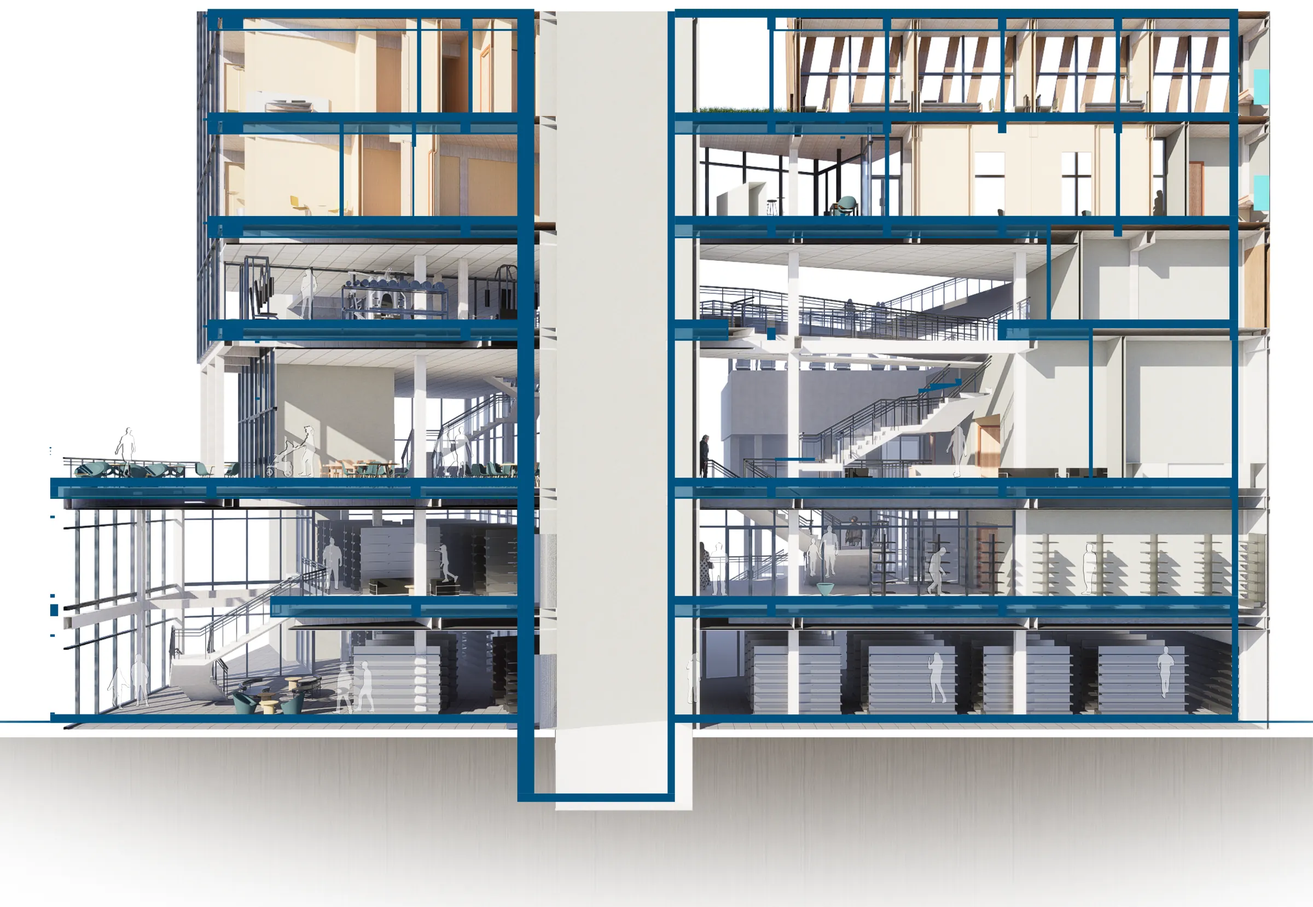
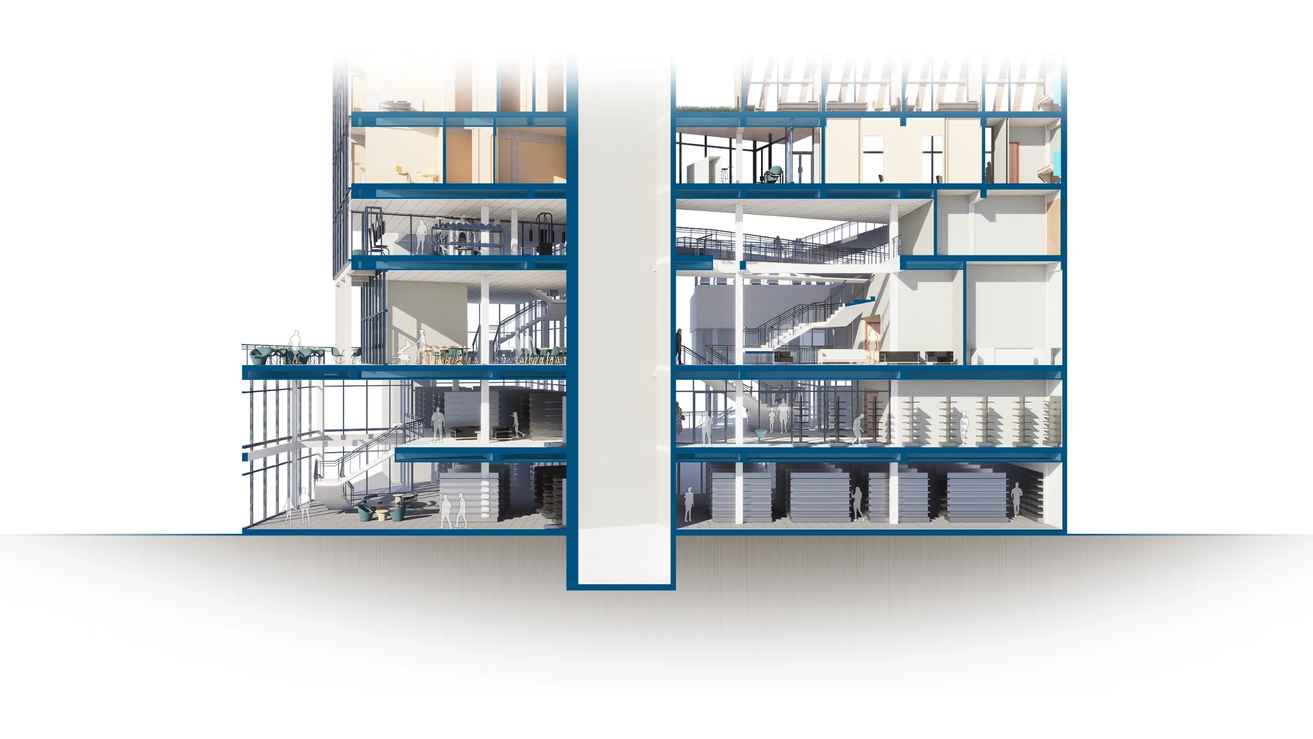
BRIDGE1400: Section AA v1.0 with horizontal callouts in the side margins; centred sketch captions

diff --git a/docs/work/bridge1400/index.html b/docs/work/bridge1400/index.html
@@ -659,7 +659,7 @@
     </g>
   </g>
 </svg>
-</div><p class="step-n">Step 8</p><h3>Experiential ramp</h3><p>A gently sloped internal ramp links Level 4 and Level 5 as a promenade with waterfront views.</p></li></ol></div></section><section class="chapter reveal"><div class="chapter-text"><h2>Mass timber</h2><p>The four-level podium is concrete. Above it, the hotel tower is built in mass timber: glulam columns and beams carry CLT floors, arranged around concrete cores. Exposed wood gives the guest rooms warmth and quiet, carries the project&#x27;s biophilic approach, and echoes the timber and glass of the working waterfront. Timber also stores carbon instead of emitting it, which the design study estimates below.</p><div class="facts"><div class="fact"><span>CO2 stored per m3 of CLT</span><strong>~0.9 t</strong></div><div class="fact"><span>Structural timber per ft2 of floor</span><strong>7.5 ft3</strong></div><div class="fact"><span>CO2 stored in the CLT, metric tons (estimate)</span><strong>~33,000 t</strong></div></div><p class="small">CLT storage rate from WoodWorks and the U.S. Forest Service, as cited in the design study.</p></div><div class="chapter-figs"><div class="fig-pair"><figure class="zoom"><img class="" src="../../assets/img/bridge1400/structure-nw-1200.webp" srcset="../../assets/img/bridge1400/structure-nw-1200.webp 1200w, ../../assets/img/bridge1400/structure-nw-2400.webp 2400w" sizes="(min-width: 1400px) 1400px, 100vw" width="2083" height="2521" alt="Structural axonometric from the northwest" loading="lazy" decoding="async"><figcaption>Structural axonometric from the northwest</figcaption></figure><figure class="zoom"><img class="" src="../../assets/img/bridge1400/structure-se-1200.webp" srcset="../../assets/img/bridge1400/structure-se-1200.webp 1200w, ../../assets/img/bridge1400/structure-se-2400.webp 2400w" sizes="(min-width: 1400px) 1400px, 100vw" width="2089" height="2633" alt="Structural axonometric from the southeast" loading="lazy" decoding="async"><figcaption>Structural axonometric from the southeast</figcaption></figure></div></div></section><section class="chapter reveal"><div class="chapter-text"><h2>Plans</h2><p>Retail activates the first two levels. The hotel lobby, restaurants and an infinity pool fill the podium, and guest rooms stack above with terraces and a sky lounge.</p></div><div class="chapter-figs"><div class="plan-viewer"><input class="plan-radio" type="radio" name="plans-bridge1400" id="plans-bridge1400-0" checked><input class="plan-radio" type="radio" name="plans-bridge1400" id="plans-bridge1400-1"><input class="plan-radio" type="radio" name="plans-bridge1400" id="plans-bridge1400-2"><input class="plan-radio" type="radio" name="plans-bridge1400" id="plans-bridge1400-3"><input class="plan-radio" type="radio" name="plans-bridge1400" id="plans-bridge1400-4"><input class="plan-radio" type="radio" name="plans-bridge1400" id="plans-bridge1400-5"><input class="plan-radio" type="radio" name="plans-bridge1400" id="plans-bridge1400-6"><input class="plan-radio" type="radio" name="plans-bridge1400" id="plans-bridge1400-7"><div class="plan-tabs"><span>Level</span><label for="plans-bridge1400-0">1</label><label for="plans-bridge1400-1">2</label><label for="plans-bridge1400-2">3</label><label for="plans-bridge1400-3">4</label><label for="plans-bridge1400-4">5</label><label for="plans-bridge1400-5">6–9</label><label for="plans-bridge1400-6">10</label><label for="plans-bridge1400-7">12–13</label></div><div class="plan-panels"><figure class="plan-panel"><div class="plan-sheet zoom"><img class="" src="../../assets/img/bridge1400/plan-level-1-1200.webp" srcset="../../assets/img/bridge1400/plan-level-1-1200.webp 1200w, ../../assets/img/bridge1400/plan-level-1-2400.webp 2400w" sizes="(min-width: 1100px) 1000px, 100vw" width="2244" height="2600" alt="Level 1 floor plan" loading="lazy" decoding="async"></div><figcaption><strong>Level 1</strong><ul><li>Retail shops</li><li>Service area</li></ul></figcaption></figure><figure class="plan-panel"><div class="plan-sheet zoom"><img class="" src="../../assets/img/bridge1400/plan-level-2-1200.webp" srcset="../../assets/img/bridge1400/plan-level-2-1200.webp 1200w, ../../assets/img/bridge1400/plan-level-2-2400.webp 2400w" sizes="(min-width: 1100px) 1000px, 100vw" width="2244" height="2600" alt="Level 2 floor plan" loading="lazy" decoding="async"></div><figcaption><strong>Level 2</strong><ul><li>Retail shops</li><li>Service area</li></ul></figcaption></figure><figure class="plan-panel"><div class="plan-sheet zoom"><img class="" src="../../assets/img/bridge1400/plan-level-3-1200.webp" srcset="../../assets/img/bridge1400/plan-level-3-1200.webp 1200w, ../../assets/img/bridge1400/plan-level-3-2400.webp 2400w" sizes="(min-width: 1100px) 1000px, 100vw" width="2244" height="2600" alt="Level 3 floor plan" loading="lazy" decoding="async"></div><figcaption><strong>Level 3</strong><ul><li>Hotel lobby</li><li>Service area</li><li>Restaurant</li><li>Cafe</li></ul></figcaption></figure><figure class="plan-panel"><div class="plan-sheet zoom"><img class="" src="../../assets/img/bridge1400/plan-level-4-1200.webp" srcset="../../assets/img/bridge1400/plan-level-4-1200.webp 1200w, ../../assets/img/bridge1400/plan-level-4-2400.webp 2400w" sizes="(min-width: 1100px) 1000px, 100vw" width="2244" height="2600" alt="Level 4 floor plan" loading="lazy" decoding="async"></div><figcaption><strong>Level 4</strong><ul><li>Fitness zone</li><li>Service area</li><li>Restaurant</li><li>Cafe</li><li>Infinity pool area</li></ul></figcaption></figure><figure class="plan-panel"><div class="plan-sheet zoom"><img class="" src="../../assets/img/bridge1400/plan-level-5-1200.webp" srcset="../../assets/img/bridge1400/plan-level-5-1200.webp 1200w, ../../assets/img/bridge1400/plan-level-5-2400.webp 2400w" sizes="(min-width: 1100px) 1000px, 100vw" width="2244" height="2600" alt="Level 5 floor plan" loading="lazy" decoding="async"></div><figcaption><strong>Level 5</strong><ul><li>Guest rooms</li><li>Hotel service</li><li>Lounge</li></ul></figcaption></figure><figure class="plan-panel"><div class="plan-sheet zoom"><img class="" src="../../assets/img/bridge1400/plan-level-6-9-1200.webp" srcset="../../assets/img/bridge1400/plan-level-6-9-1200.webp 1200w, ../../assets/img/bridge1400/plan-level-6-9-2400.webp 2400w" sizes="(min-width: 1100px) 1000px, 100vw" width="2244" height="2600" alt="Levels 6 to 9 floor plan" loading="lazy" decoding="async"></div><figcaption><strong>Levels 6 to 9</strong><ul><li>Guest rooms</li><li>Hotel service</li><li>Green terrace</li></ul></figcaption></figure><figure class="plan-panel"><div class="plan-sheet zoom"><img class="" src="../../assets/img/bridge1400/plan-level-10-1200.webp" srcset="../../assets/img/bridge1400/plan-level-10-1200.webp 1200w, ../../assets/img/bridge1400/plan-level-10-2400.webp 2400w" sizes="(min-width: 1100px) 1000px, 100vw" width="2244" height="2600" alt="Level 10 floor plan" loading="lazy" decoding="async"></div><figcaption><strong>Level 10</strong><ul><li>Guest rooms</li><li>Hotel service</li><li>Green terrace BBQ</li></ul></figcaption></figure><figure class="plan-panel"><div class="plan-sheet zoom"><img class="" src="../../assets/img/bridge1400/plan-level-12-13-1200.webp" srcset="../../assets/img/bridge1400/plan-level-12-13-1200.webp 1200w, ../../assets/img/bridge1400/plan-level-12-13-2400.webp 2400w" sizes="(min-width: 1100px) 1000px, 100vw" width="2244" height="2600" alt="Levels 12 and 13 floor plan" loading="lazy" decoding="async"></div><figcaption><strong>Levels 12 and 13</strong><ul><li>Guest rooms</li><li>Hotel service</li><li>Lounge</li></ul></figcaption></figure></div></div></div></section><section class="chapter reveal"><div class="chapter-text"><h2>Sections</h2><p>Double-height retail glazing, a restaurant stair through a central void, and the pool-to-bar ramp are read together in section.</p></div><div class="chapter-figs"><figure class="callout-map wide"><div class="callout-stage" style="--ar:3300/2962.0;--ar-img:3300/2280;--img-top:23.02%;--img-h:76.98%;--label-w:15.0%;--design-w:1200"><img class="callout-img" src="../../assets/img/bridge1400/section-aa-1200.webp" srcset="../../assets/img/bridge1400/section-aa-1200.webp 1200w, ../../assets/img/bridge1400/section-aa-2400.webp 2400w" sizes="(min-width: 960px) 900px, 100vw" width="3300" height="2280" alt="Section AA" loading="lazy" decoding="async"><svg class="callout-lines" viewBox="0 0 3300 2962.0" preserveAspectRatio="none" aria-hidden="true"><path vector-effect="non-scaling-stroke" d="M264.0,643.5 L131.0,2088.8"/><path vector-effect="non-scaling-stroke" d="M272.2,429.0 L272.2,1840.2"/><path vector-effect="non-scaling-stroke" d="M666.6,214.5 L666.6,1416.2"/><path vector-effect="non-scaling-stroke" d="M825.0,643.5 L825.0,1149.4"/><path vector-effect="non-scaling-stroke" d="M1468.5,643.5 L1468.5,2615.4"/><path vector-effect="non-scaling-stroke" d="M1953.6,429.0 L1953.6,1151.7"/><path vector-effect="non-scaling-stroke" d="M2323.2,643.5 L2323.2,1696.6"/><path vector-effect="non-scaling-stroke" d="M2422.2,214.5 L2422.2,1423.0"/><path vector-effect="non-scaling-stroke" d="M2930.4,643.5 L2930.4,1851.6"/><path vector-effect="non-scaling-stroke" d="M3036.0,429.0 L3036.0,2268.9"/></svg><span class="callout-dot" data-n="1" style="left:3.97%;--ty:70.52%;--ty-img:61.70%"></span><span class="callout-dot" data-n="2" style="left:8.25%;--ty:62.13%;--ty-img:50.80%"></span><span class="callout-dot" data-n="3" style="left:20.20%;--ty:47.81%;--ty-img:32.20%"></span><span class="callout-dot" data-n="4" style="left:25.00%;--ty:38.80%;--ty-img:20.50%"></span><span class="callout-dot" data-n="5" style="left:44.50%;--ty:88.30%;--ty-img:84.80%"></span><span class="callout-dot" data-n="6" style="left:59.20%;--ty:38.88%;--ty-img:20.60%"></span><span class="callout-dot" data-n="7" style="left:70.40%;--ty:57.28%;--ty-img:44.50%"></span><span class="callout-dot" data-n="8" style="left:73.40%;--ty:48.04%;--ty-img:32.50%"></span><span class="callout-dot" data-n="9" style="left:88.80%;--ty:62.51%;--ty-img:51.30%"></span><span class="callout-dot" data-n="10" style="left:92.00%;--ty:76.60%;--ty-img:69.60%"></span><span class="callout-label" style="left:8.00%;top:21.73%"><strong>Retail glazing</strong><small>Double-height, dual-glazed storefront</small></span><span class="callout-label" style="left:8.25%;top:14.48%"><strong>Outdoor restaurant</strong><small>Draws people in from Union St and Western Ave</small></span><span class="callout-label" style="left:20.20%;top:7.24%"><strong>Fitness center</strong><small>Daylight and open views</small></span><span class="callout-label" style="left:25.00%;top:21.73%"><strong>Hotel rooms</strong><small>Framed toward views, daylight and quiet</small></span><span class="callout-label" style="left:44.50%;top:21.73%"><strong>Elevator pit</strong><small>8 ft deep for mechanical clearance</small></span><span class="callout-label" style="left:59.20%;top:14.48%"><strong>Drinks bar</strong><small>Social anchor with water and city views</small></span><span class="callout-label" style="left:70.40%;top:21.73%"><strong>Restaurant stair</strong><small>Rises through a central void</small></span><span class="callout-label" style="left:73.40%;top:7.24%"><strong>Pool-to-bar ramp</strong><small>Links the Level 4 pool and Level 5 bar</small></span><span class="callout-label" style="left:88.80%;top:21.73%"><strong>Cafe kitchen</strong><small>Back-of-house beside the cafe</small></span><span class="callout-label" style="left:92.00%;top:14.48%"><strong>Retail street edge</strong><small>Double-height storefronts draw people in</small></span></div><ol class="callout-legend"><li><strong>Retail glazing</strong> Double-height, dual-glazed storefront</li><li><strong>Outdoor restaurant</strong> Draws people in from Union St and Western Ave</li><li><strong>Fitness center</strong> Daylight and open views</li><li><strong>Hotel rooms</strong> Framed toward views, daylight and quiet</li><li><strong>Elevator pit</strong> 8 ft deep for mechanical clearance</li><li><strong>Drinks bar</strong> Social anchor with water and city views</li><li><strong>Restaurant stair</strong> Rises through a central void</li><li><strong>Pool-to-bar ramp</strong> Links the Level 4 pool and Level 5 bar</li><li><strong>Cafe kitchen</strong> Back-of-house beside the cafe</li><li><strong>Retail street edge</strong> Double-height storefronts draw people in</li></ol><figcaption>Section AA</figcaption></figure></div></section><section class="chapter reveal"><div class="chapter-text"><h2>Performance</h2><p>The design study sizes renewable energy and water systems for the building. Rooftop and facade PV cover part of the annual electricity use, and low-flow fixtures, greywater reuse and rainwater harvesting cut potable water demand.</p><div class="facts"><div class="fact"><span>Solar electricity per year, of 1,400 MWh used</span><strong>212 MWh (15%)</strong></div><div class="fact"><span>Rooftop and facade PV system</span><strong>150 kW</strong></div><div class="fact"><span>Electricity cost saved by the PV</span><strong>~$23K per year</strong></div><div class="fact"><span>PV cost before incentives, about 6.5-year payback</span><strong>$150K</strong></div><div class="fact"><span>Water cost saved</span><strong>~$8K per year</strong></div><div class="fact"><span>Social cost of the carbon stored in the CLT</span><strong>~$6.2M</strong></div><div class="fact"><span>Water managed sustainably per year, of 2.3M gal used</span><strong>740K gal (33%)</strong></div><div class="fact"><span>Saved by low-flow fixtures (30 to 50% of use)</span><strong>Up to 1.15M gal</strong></div><div class="fact"><span>Recoverable greywater (40 to 50% of use)</span><strong>920K to 1.15M gal</strong></div><div class="fact"><span>Rainwater collected per year</span><strong>~237K gal</strong></div><div class="fact"><span>CO2 stored in the CLT structure</span><strong>~33,000 t</strong></div><div class="fact"><span>CO2 emitted by a concrete (RCC) structure</span><strong>~4,500 t</strong></div><div class="fact"><span>Off the road for a year, equivalent carbon</span><strong>~7,200 cars</strong></div></div><p class="small">Estimates from the design study: PV yield about 1,410 kWh per installed kW; rainfall 38 in per year. Water strategies overlap, so their savings are not added together. CLT stores about 0.9 t CO2 per m3 (WoodWorks, U.S. Forest Service); car equivalent uses EPA&#x27;s 4.6 t CO2 per car per year.</p><details class="calc"><summary>How these were calculated</summary><ul><li>Solar output: 150 kW × 1,410 kWh per kW per year = 211,500 kWh ≈ 212 MWh. 212 ÷ 1,400 MWh = 15% of annual use.</li><li>Electricity bill: 1,400,000 kWh × $0.11 per kWh (middle of the 10 to 12¢ grid price) ≈ $154K per year. The study&#x27;s $105K implies 7.5¢, below its own grid price, so the grid price is used here.</li><li>PV savings: 211,500 kWh × $0.11 ≈ $23K per year.</li><li>PV cost: 150,000 W × $1.00 per W = $150,000 before incentives. Simple payback: $150,000 ÷ $23,000 ≈ 6.5 years.</li><li>Water share: 740K ÷ 2.3M gal ≈ 32%, rounded to 33% in the study.</li><li>Low-flow fixtures: 30 to 50% of 2.3M gal = 690K to 1.15M gal. Greywater: 40 to 50% of 2.3M gal = 920K to 1.15M gal.</li><li>Water cost: the study&#x27;s $8K saved on 740K gal implies about $10.80 per 1,000 gal, so the full 2.3M gal bill is about $25K per year.</li><li>Rainwater: 38 in of rain per year × 0.623 gal per ft² per inch × about 10,000 ft² of roof ≈ 236,740 gal.</li><li>CLT storage: 0.9 t CO2 per m³ ÷ 35.3 ft³ per m³ ≈ 25 kg per ft³. 33,000 t ÷ 0.0255 t per ft³ ≈ 1.3M ft³ of timber, about 173,000 ft² of floor at 7.5 ft³ per ft².</li><li>Timber vs concrete: 33,000 t stored ÷ 4,500 t emitted ≈ 7.3 times (745% in the study).</li><li>Cars: 33,000 t ÷ 4.6 t CO2 per car per year ≈ 7,200 cars.</li><li>Carbon value: $6.2M ÷ 33,000 t ≈ $188 per tonne, in line with EPA&#x27;s social cost of carbon (about $190 per tonne).</li></ul></details></div><div class="chapter-figs"></div></section>
+</div><p class="step-n">Step 8</p><h3>Experiential ramp</h3><p>A gently sloped internal ramp links Level 4 and Level 5 as a promenade with waterfront views.</p></li></ol></div></section><section class="chapter reveal"><div class="chapter-text"><h2>Mass timber</h2><p>The four-level podium is concrete. Above it, the hotel tower is built in mass timber: glulam columns and beams carry CLT floors, arranged around concrete cores. Exposed wood gives the guest rooms warmth and quiet, carries the project&#x27;s biophilic approach, and echoes the timber and glass of the working waterfront. Timber also stores carbon instead of emitting it, which the design study estimates below.</p><div class="facts"><div class="fact"><span>CO2 stored per m3 of CLT</span><strong>~0.9 t</strong></div><div class="fact"><span>Structural timber per ft2 of floor</span><strong>7.5 ft3</strong></div><div class="fact"><span>CO2 stored in the CLT, metric tons (estimate)</span><strong>~33,000 t</strong></div></div><p class="small">CLT storage rate from WoodWorks and the U.S. Forest Service, as cited in the design study.</p></div><div class="chapter-figs"><div class="fig-pair"><figure class="zoom"><img class="" src="../../assets/img/bridge1400/structure-nw-1200.webp" srcset="../../assets/img/bridge1400/structure-nw-1200.webp 1200w, ../../assets/img/bridge1400/structure-nw-2400.webp 2400w" sizes="(min-width: 1400px) 1400px, 100vw" width="2083" height="2521" alt="Structural axonometric from the northwest" loading="lazy" decoding="async"><figcaption>Structural axonometric from the northwest</figcaption></figure><figure class="zoom"><img class="" src="../../assets/img/bridge1400/structure-se-1200.webp" srcset="../../assets/img/bridge1400/structure-se-1200.webp 1200w, ../../assets/img/bridge1400/structure-se-2400.webp 2400w" sizes="(min-width: 1400px) 1400px, 100vw" width="2089" height="2633" alt="Structural axonometric from the southeast" loading="lazy" decoding="async"><figcaption>Structural axonometric from the southeast</figcaption></figure></div></div></section><section class="chapter reveal"><div class="chapter-text"><h2>Plans</h2><p>Retail activates the first two levels. The hotel lobby, restaurants and an infinity pool fill the podium, and guest rooms stack above with terraces and a sky lounge.</p></div><div class="chapter-figs"><div class="plan-viewer"><input class="plan-radio" type="radio" name="plans-bridge1400" id="plans-bridge1400-0" checked><input class="plan-radio" type="radio" name="plans-bridge1400" id="plans-bridge1400-1"><input class="plan-radio" type="radio" name="plans-bridge1400" id="plans-bridge1400-2"><input class="plan-radio" type="radio" name="plans-bridge1400" id="plans-bridge1400-3"><input class="plan-radio" type="radio" name="plans-bridge1400" id="plans-bridge1400-4"><input class="plan-radio" type="radio" name="plans-bridge1400" id="plans-bridge1400-5"><input class="plan-radio" type="radio" name="plans-bridge1400" id="plans-bridge1400-6"><input class="plan-radio" type="radio" name="plans-bridge1400" id="plans-bridge1400-7"><div class="plan-tabs"><span>Level</span><label for="plans-bridge1400-0">1</label><label for="plans-bridge1400-1">2</label><label for="plans-bridge1400-2">3</label><label for="plans-bridge1400-3">4</label><label for="plans-bridge1400-4">5</label><label for="plans-bridge1400-5">6–9</label><label for="plans-bridge1400-6">10</label><label for="plans-bridge1400-7">12–13</label></div><div class="plan-panels"><figure class="plan-panel"><div class="plan-sheet zoom"><img class="" src="../../assets/img/bridge1400/plan-level-1-1200.webp" srcset="../../assets/img/bridge1400/plan-level-1-1200.webp 1200w, ../../assets/img/bridge1400/plan-level-1-2400.webp 2400w" sizes="(min-width: 1100px) 1000px, 100vw" width="2244" height="2600" alt="Level 1 floor plan" loading="lazy" decoding="async"></div><figcaption><strong>Level 1</strong><ul><li>Retail shops</li><li>Service area</li></ul></figcaption></figure><figure class="plan-panel"><div class="plan-sheet zoom"><img class="" src="../../assets/img/bridge1400/plan-level-2-1200.webp" srcset="../../assets/img/bridge1400/plan-level-2-1200.webp 1200w, ../../assets/img/bridge1400/plan-level-2-2400.webp 2400w" sizes="(min-width: 1100px) 1000px, 100vw" width="2244" height="2600" alt="Level 2 floor plan" loading="lazy" decoding="async"></div><figcaption><strong>Level 2</strong><ul><li>Retail shops</li><li>Service area</li></ul></figcaption></figure><figure class="plan-panel"><div class="plan-sheet zoom"><img class="" src="../../assets/img/bridge1400/plan-level-3-1200.webp" srcset="../../assets/img/bridge1400/plan-level-3-1200.webp 1200w, ../../assets/img/bridge1400/plan-level-3-2400.webp 2400w" sizes="(min-width: 1100px) 1000px, 100vw" width="2244" height="2600" alt="Level 3 floor plan" loading="lazy" decoding="async"></div><figcaption><strong>Level 3</strong><ul><li>Hotel lobby</li><li>Service area</li><li>Restaurant</li><li>Cafe</li></ul></figcaption></figure><figure class="plan-panel"><div class="plan-sheet zoom"><img class="" src="../../assets/img/bridge1400/plan-level-4-1200.webp" srcset="../../assets/img/bridge1400/plan-level-4-1200.webp 1200w, ../../assets/img/bridge1400/plan-level-4-2400.webp 2400w" sizes="(min-width: 1100px) 1000px, 100vw" width="2244" height="2600" alt="Level 4 floor plan" loading="lazy" decoding="async"></div><figcaption><strong>Level 4</strong><ul><li>Fitness zone</li><li>Service area</li><li>Restaurant</li><li>Cafe</li><li>Infinity pool area</li></ul></figcaption></figure><figure class="plan-panel"><div class="plan-sheet zoom"><img class="" src="../../assets/img/bridge1400/plan-level-5-1200.webp" srcset="../../assets/img/bridge1400/plan-level-5-1200.webp 1200w, ../../assets/img/bridge1400/plan-level-5-2400.webp 2400w" sizes="(min-width: 1100px) 1000px, 100vw" width="2244" height="2600" alt="Level 5 floor plan" loading="lazy" decoding="async"></div><figcaption><strong>Level 5</strong><ul><li>Guest rooms</li><li>Hotel service</li><li>Lounge</li></ul></figcaption></figure><figure class="plan-panel"><div class="plan-sheet zoom"><img class="" src="../../assets/img/bridge1400/plan-level-6-9-1200.webp" srcset="../../assets/img/bridge1400/plan-level-6-9-1200.webp 1200w, ../../assets/img/bridge1400/plan-level-6-9-2400.webp 2400w" sizes="(min-width: 1100px) 1000px, 100vw" width="2244" height="2600" alt="Levels 6 to 9 floor plan" loading="lazy" decoding="async"></div><figcaption><strong>Levels 6 to 9</strong><ul><li>Guest rooms</li><li>Hotel service</li><li>Green terrace</li></ul></figcaption></figure><figure class="plan-panel"><div class="plan-sheet zoom"><img class="" src="../../assets/img/bridge1400/plan-level-10-1200.webp" srcset="../../assets/img/bridge1400/plan-level-10-1200.webp 1200w, ../../assets/img/bridge1400/plan-level-10-2400.webp 2400w" sizes="(min-width: 1100px) 1000px, 100vw" width="2244" height="2600" alt="Level 10 floor plan" loading="lazy" decoding="async"></div><figcaption><strong>Level 10</strong><ul><li>Guest rooms</li><li>Hotel service</li><li>Green terrace BBQ</li></ul></figcaption></figure><figure class="plan-panel"><div class="plan-sheet zoom"><img class="" src="../../assets/img/bridge1400/plan-level-12-13-1200.webp" srcset="../../assets/img/bridge1400/plan-level-12-13-1200.webp 1200w, ../../assets/img/bridge1400/plan-level-12-13-2400.webp 2400w" sizes="(min-width: 1100px) 1000px, 100vw" width="2244" height="2600" alt="Levels 12 and 13 floor plan" loading="lazy" decoding="async"></div><figcaption><strong>Levels 12 and 13</strong><ul><li>Guest rooms</li><li>Hotel service</li><li>Lounge</li></ul></figcaption></figure></div></div></div></section><section class="chapter reveal"><div class="chapter-text"><h2>Sections</h2><p>Double-height retail glazing, a restaurant stair through a central void, and the pool-to-bar ramp are read together in section.</p></div><div class="chapter-figs"><figure class="callout-map sides"><div class="callout-stage" style="--ar:3300/1858;--ar-img:3300/1858;--img-top:0%;--img-h:100%;--label-w:16.5%"><img class="callout-img" src="../../assets/img/bridge1400/section-aa-1200.webp" srcset="../../assets/img/bridge1400/section-aa-1200.webp 1200w, ../../assets/img/bridge1400/section-aa-2400.webp 2400w" sizes="(min-width: 1400px) 1400px, 100vw" width="3300" height="1858" alt="Section AA" loading="lazy" decoding="async"><svg class="callout-lines" viewBox="0 0 3300 1858" preserveAspectRatio="none" aria-hidden="true"><path vector-effect="non-scaling-stroke" d="M577.5,379.0 L1155.0,379.0"/><path vector-effect="non-scaling-stroke" d="M577.5,594.6 L990.0,594.6"/><path vector-effect="non-scaling-stroke" d="M577.5,891.8 L726.0,891.8"/><path vector-effect="non-scaling-stroke" d="M577.5,1072.1 L660.0,1072.1"/><path vector-effect="non-scaling-stroke" d="M577.5,1419.5 L1559.2,1419.5"/><path vector-effect="non-scaling-stroke" d="M2722.5,412.5 L1947.0,412.5"/><path vector-effect="non-scaling-stroke" d="M2722.5,611.3 L2062.5,611.3"/><path vector-effect="non-scaling-stroke" d="M2722.5,743.2 L2095.5,743.2"/><path vector-effect="non-scaling-stroke" d="M2722.5,864.0 L2541.0,858.4"/><path vector-effect="non-scaling-stroke" d="M2722.5,1055.3 L2475.0,1055.3"/></svg><span class="callout-dot" data-n="1" style="left:35.00%;--ty:20.40%;--ty-img:20.40%"></span><span class="callout-dot" data-n="2" style="left:30.00%;--ty:32.00%;--ty-img:32.00%"></span><span class="callout-dot" data-n="3" style="left:22.00%;--ty:48.00%;--ty-img:48.00%"></span><span class="callout-dot" data-n="4" style="left:20.00%;--ty:57.70%;--ty-img:57.70%"></span><span class="callout-dot" data-n="5" style="left:47.25%;--ty:76.40%;--ty-img:76.40%"></span><span class="callout-dot" data-n="6" style="left:59.00%;--ty:22.20%;--ty-img:22.20%"></span><span class="callout-dot" data-n="7" style="left:62.50%;--ty:32.90%;--ty-img:32.90%"></span><span class="callout-dot" data-n="8" style="left:63.50%;--ty:40.00%;--ty-img:40.00%"></span><span class="callout-dot" data-n="9" style="left:77.00%;--ty:46.20%;--ty-img:46.20%"></span><span class="callout-dot" data-n="10" style="left:75.00%;--ty:56.80%;--ty-img:56.80%"></span><span class="callout-label l" style="left:17.50%;top:20.40%"><strong>Hotel rooms</strong><small>Framed toward views, daylight and quiet</small></span><span class="callout-label l" style="left:17.50%;top:32.00%"><strong>Fitness center</strong><small>Daylight and open views</small></span><span class="callout-label l" style="left:17.50%;top:48.00%"><strong>Outdoor restaurant</strong><small>Draws people in from Union St and Western Ave</small></span><span class="callout-label l" style="left:17.50%;top:57.70%"><strong>Retail glazing</strong><small>Double-height, dual-glazed storefront</small></span><span class="callout-label l" style="left:17.50%;top:76.40%"><strong>Elevator pit</strong><small>8 ft deep for mechanical clearance</small></span><span class="callout-label r" style="left:82.50%;top:22.20%"><strong>Drinks bar</strong><small>Social anchor with water and city views</small></span><span class="callout-label r" style="left:82.50%;top:32.90%"><strong>Pool-to-bar ramp</strong><small>Links the Level 4 pool and Level 5 bar</small></span><span class="callout-label r" style="left:82.50%;top:40.00%"><strong>Restaurant stair</strong><small>Rises through a central void</small></span><span class="callout-label r" style="left:82.50%;top:46.50%"><strong>Cafe kitchen</strong><small>Back-of-house beside the cafe</small></span><span class="callout-label r" style="left:82.50%;top:56.80%"><strong>Retail street edge</strong><small>Double-height storefronts draw people in</small></span></div><ol class="callout-legend"><li><strong>Hotel rooms</strong> Framed toward views, daylight and quiet</li><li><strong>Fitness center</strong> Daylight and open views</li><li><strong>Outdoor restaurant</strong> Draws people in from Union St and Western Ave</li><li><strong>Retail glazing</strong> Double-height, dual-glazed storefront</li><li><strong>Elevator pit</strong> 8 ft deep for mechanical clearance</li><li><strong>Drinks bar</strong> Social anchor with water and city views</li><li><strong>Pool-to-bar ramp</strong> Links the Level 4 pool and Level 5 bar</li><li><strong>Restaurant stair</strong> Rises through a central void</li><li><strong>Cafe kitchen</strong> Back-of-house beside the cafe</li><li><strong>Retail street edge</strong> Double-height storefronts draw people in</li></ol><figcaption>Section AA</figcaption></figure></div></section><section class="chapter reveal"><div class="chapter-text"><h2>Performance</h2><p>The design study sizes renewable energy and water systems for the building. Rooftop and facade PV cover part of the annual electricity use, and low-flow fixtures, greywater reuse and rainwater harvesting cut potable water demand.</p><div class="facts"><div class="fact"><span>Solar electricity per year, of 1,400 MWh used</span><strong>212 MWh (15%)</strong></div><div class="fact"><span>Rooftop and facade PV system</span><strong>150 kW</strong></div><div class="fact"><span>Electricity cost saved by the PV</span><strong>~$23K per year</strong></div><div class="fact"><span>PV cost before incentives, about 6.5-year payback</span><strong>$150K</strong></div><div class="fact"><span>Water cost saved</span><strong>~$8K per year</strong></div><div class="fact"><span>Social cost of the carbon stored in the CLT</span><strong>~$6.2M</strong></div><div class="fact"><span>Water managed sustainably per year, of 2.3M gal used</span><strong>740K gal (33%)</strong></div><div class="fact"><span>Saved by low-flow fixtures (30 to 50% of use)</span><strong>Up to 1.15M gal</strong></div><div class="fact"><span>Recoverable greywater (40 to 50% of use)</span><strong>920K to 1.15M gal</strong></div><div class="fact"><span>Rainwater collected per year</span><strong>~237K gal</strong></div><div class="fact"><span>CO2 stored in the CLT structure</span><strong>~33,000 t</strong></div><div class="fact"><span>CO2 emitted by a concrete (RCC) structure</span><strong>~4,500 t</strong></div><div class="fact"><span>Off the road for a year, equivalent carbon</span><strong>~7,200 cars</strong></div></div><p class="small">Estimates from the design study: PV yield about 1,410 kWh per installed kW; rainfall 38 in per year. Water strategies overlap, so their savings are not added together. CLT stores about 0.9 t CO2 per m3 (WoodWorks, U.S. Forest Service); car equivalent uses EPA&#x27;s 4.6 t CO2 per car per year.</p><details class="calc"><summary>How these were calculated</summary><ul><li>Solar output: 150 kW × 1,410 kWh per kW per year = 211,500 kWh ≈ 212 MWh. 212 ÷ 1,400 MWh = 15% of annual use.</li><li>Electricity bill: 1,400,000 kWh × $0.11 per kWh (middle of the 10 to 12¢ grid price) ≈ $154K per year. The study&#x27;s $105K implies 7.5¢, below its own grid price, so the grid price is used here.</li><li>PV savings: 211,500 kWh × $0.11 ≈ $23K per year.</li><li>PV cost: 150,000 W × $1.00 per W = $150,000 before incentives. Simple payback: $150,000 ÷ $23,000 ≈ 6.5 years.</li><li>Water share: 740K ÷ 2.3M gal ≈ 32%, rounded to 33% in the study.</li><li>Low-flow fixtures: 30 to 50% of 2.3M gal = 690K to 1.15M gal. Greywater: 40 to 50% of 2.3M gal = 920K to 1.15M gal.</li><li>Water cost: the study&#x27;s $8K saved on 740K gal implies about $10.80 per 1,000 gal, so the full 2.3M gal bill is about $25K per year.</li><li>Rainwater: 38 in of rain per year × 0.623 gal per ft² per inch × about 10,000 ft² of roof ≈ 236,740 gal.</li><li>CLT storage: 0.9 t CO2 per m³ ÷ 35.3 ft³ per m³ ≈ 25 kg per ft³. 33,000 t ÷ 0.0255 t per ft³ ≈ 1.3M ft³ of timber, about 173,000 ft² of floor at 7.5 ft³ per ft².</li><li>Timber vs concrete: 33,000 t stored ÷ 4,500 t emitted ≈ 7.3 times (745% in the study).</li><li>Cars: 33,000 t ÷ 4.6 t CO2 per car per year ≈ 7,200 cars.</li><li>Carbon value: $6.2M ÷ 33,000 t ≈ $188 per tonne, in line with EPA&#x27;s social cost of carbon (about $190 per tonne).</li></ul></details></div><div class="chapter-figs"></div></section>
   <a class="next" href="../../work/professional-work/"><span>Next project</span><strong>Professional Work</strong></a>
 </article>
 </main>

diff --git a/docs/assets/css/style.css b/docs/assets/css/style.css
@@ -210,6 +210,13 @@ figcaption { font-size: .85rem; color: var(--ink-2); margin-top: .6rem; }
 /* centre the map itself on the page (the label column hangs to its left); caption centred under the map */
 .callout-map.left figcaption { text-align: center; padding-left: 27.3%; }
 @media (min-width: 1100px) { .callout-map.left { transform: translateX(-13.6%); } }
+/* sides: labels in the drawing's empty side margins (Section AA), horizontal leaders */
+.callout-map.sides { max-width: none; }
+.callout-map.sides .callout-label { padding: .35cqw .6cqw; }
+.callout-map.sides .callout-label.l { transform: translate(-100%, -50%); text-align: right; }
+.callout-map.sides .callout-label.r { transform: translate(0, -50%); text-align: left; }
+.callout-map.sides .callout-label strong { font-size: 1.05cqw; }
+.callout-map.sides .callout-label small { font-size: .85cqw; margin-top: .1rem; }
 .callout-legend { display: none; }
 @media (max-width: 700px) {
   .callout-map.left .callout-img { left: 0; width: 100%; }
@@ -292,6 +299,7 @@ figcaption { font-size: .85rem; color: var(--ink-2); margin-top: .6rem; }
 .sketch-ground { position: relative; width: min(100%, 300px); margin: 0 auto; aspect-ratio: var(--ar); }
 .sketch-grid .sketch-ground img { position: absolute; left: 0; top: 0; width: 100%; height: calc(100% / var(--g)); max-height: none; }
 .sketch.grounded figcaption { margin-top: 3.25rem; }
+.sketch-grid figcaption { text-align: center; }  /* images are centred in their cells, so centred captions sit under them */
 
 /* Waterfront-to-city diagram: concept section sketch between live-text zone cards */
 .zones { width: 100%; }

diff --git a/tools/build.py b/tools/build.py
@@ -229,6 +229,40 @@ def callout_left(project, name, cap, base, items, w, h, sheet):
             f"<figcaption>{e(cap)}</figcaption></figure>")
 
 
+def callout_sides(project, name, cap, base, items, w, h, sides):
+    """Labels in the empty margins left and right of the drawing, each centred on its target's height,
+    with one horizontal leader. Targets left of centre label on the left, the rest on the right.
+
+    sides: [left column's inner edge %, right column's inner edge %] of the image width.
+    """
+    edge_l, edge_r = sides
+    min_gap = 6.5                                # % of image height between label centres
+    lines, dots, labels, legend = [], [], [], []
+    order = sorted(items, key=lambda c: (c["x"] >= 50, c["y"]))  # numbered: left column top-down, then right
+    for group in ([c for c in order if c["x"] < 50], [c for c in order if c["x"] >= 50]):
+        last = None
+        for c in group:                          # only crowded labels leave their target's height
+            c["_ly"] = c["y"] if last is None else max(c["y"], last + min_gap)
+            last = c["_ly"]
+    for i, c in enumerate(order, 1):
+        right = c["x"] >= 50
+        lx = edge_r if right else edge_l
+        lines.append(f'<path vector-effect="non-scaling-stroke" d="M{lx / 100 * w:.1f},{c["_ly"] / 100 * h:.1f} '
+                     f'L{c["x"] / 100 * w:.1f},{c["y"] / 100 * h:.1f}"/>')
+        dots.append(f'<span class="callout-dot" data-n="{i}" style="left:{c["x"]:.2f}%;--ty:{c["y"]:.2f}%;--ty-img:{c["y"]:.2f}%"></span>')
+        labels.append(f'<span class="callout-label {"r" if right else "l"}" style="left:{lx:.2f}%;top:{c["_ly"]:.2f}%">'
+                      f'<strong>{e(c["label"])}</strong><small>{e(c["note"])}</small></span>')
+        legend.append(f'<li><strong>{e(c["label"])}</strong> {e(c["note"])}</li>')
+    style = (f"--ar:{w}/{h};--ar-img:{w}/{h};--img-top:0%;--img-h:100%;"
+             f"--label-w:{min(edge_l, 100 - edge_r) - 1:.1f}%")
+    return (f'<figure class="callout-map sides"><div class="callout-stage" style="{style}">'
+            f'{img(project, name, cap, base, cls="callout-img", sizes_attr="(min-width: 1400px) 1400px, 100vw")}'
+            f'<svg class="callout-lines" viewBox="0 0 {w} {h}" preserveAspectRatio="none" aria-hidden="true">'
+            f'{"".join(lines)}</svg>{"".join(dots)}{"".join(labels)}</div>'
+            f'<ol class="callout-legend">{"".join(legend)}</ol>'
+            f"<figcaption>{e(cap)}</figcaption></figure>")
+
+
 def callout_figure(project, name, cap, base, items):
     """Map with coded callouts: label boxes in a band above the image, dotted elbow leaders, end dots.
 
@@ -236,6 +270,7 @@ def callout_figure(project, name, cap, base, items):
     Phones (CSS) hide the labels and leaders, number the dots and show a numbered list instead.
     """
     # items may be a list, or {"items": [...], "sheet": true} for opaque drawings: the stage gets a white sheet + light ink
+    raw = items
     sheet = isinstance(items, dict) and items.get("sheet")
     left = isinstance(items, dict) and items.get("left")  # labels in a column left of the image, horizontal leaders
     items = items["items"] if isinstance(items, dict) else items
@@ -243,6 +278,8 @@ def callout_figure(project, name, cap, base, items):
     w, h = s["w"], s["h"]
     if left:
         return callout_left(project, name, cap, base, items, w, h, sheet)
+    if isinstance(raw, dict) and raw.get("sides"):
+        return callout_sides(project, name, cap, base, items, w, h, raw["sides"])
     items = sorted(items, key=lambda c: c["x"])  # numbered left-to-right in target order
     n = len(items)
     wide = n > 4

diff --git a/tools/prepare_images.py b/tools/prepare_images.py
@@ -45,7 +45,7 @@ IMAGES = {
         *[(f"plan-level-{lv}", os.path.join(PLANS, f"level-{lv}.png")) for lv in ("1", "2", "3", "4", "5", "6-9", "10", "12-13")],
         ("structure-nw", os.path.join(ROOT, "docs", "assets", "img", "bridge1400", "Original", "Structural Axon", "Structural Axon NW.pdf")),
         ("structure-se", os.path.join(ROOT, "docs", "assets", "img", "bridge1400", "Original", "Structural Axon", "Structural Axon SE.pdf")),
-        ("section-aa", os.path.join(ROOT, "docs", "assets", "img", "bridge1400", "Original", "Sections", "section-aa.png")),
+        ("section-aa", os.path.join(ROOT, "docs", "assets", "img", "bridge1400", "Original", "Sections", "section-aa v1.0.png")),
         ("section-bb", os.path.join(ROOT, "docs", "assets", "img", "bridge1400", "Original", "Sections", "section-bb.png")),
         ("lobby-blowup", os.path.join(ROOT, "docs", "assets", "img", "bridge1400", "Original", "Sections", "lobby-blowup.png")),
     ],
